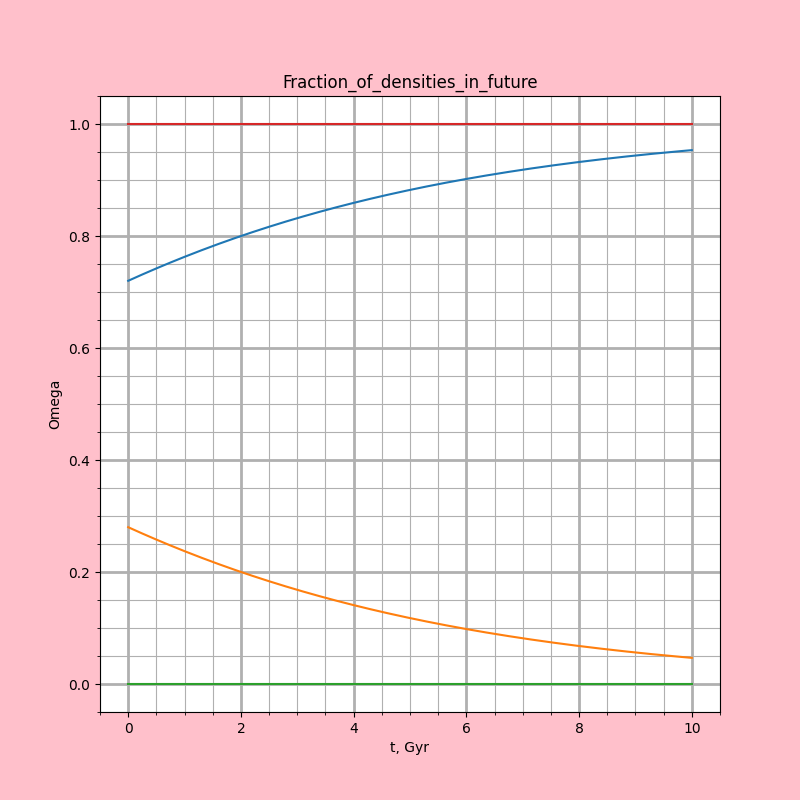
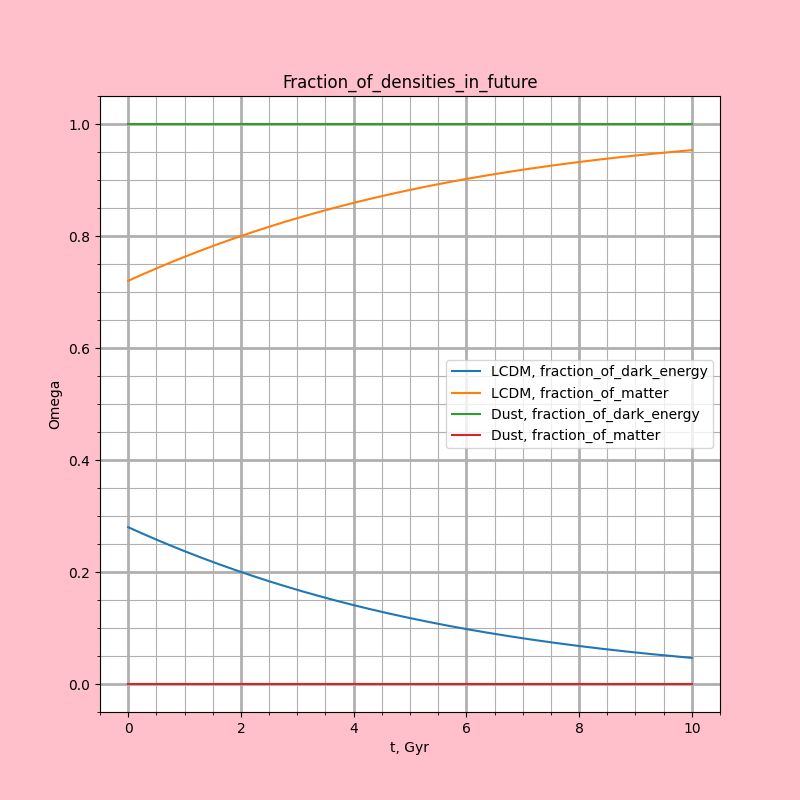
доработано легендирование

diff --git a/modeling_module/physical_problems/cosmology/solver.py b/modeling_module/physical_problems/cosmology/solver.py
@@ -84,6 +84,7 @@ class Cosmology_calculus():
         self.omega_r = float(model.omega_r)
         self.omega_d = float(model.omega_d)
         self.EOS = sympify(model.equation_d)
+        self.title_of_model = model.title_of_model
 
         self.z_max = float(config.z_max)
         self.t_max = float(config.t_max)/13.6*float(config.H_0)/70
@@ -149,8 +150,8 @@ class Cosmology_calculus():
             sol = odeint(Friedmann_eqs_2, ICS, times, args = (self.EOS,))
             self.scale_factor.append(sol[1,0])
             self.T_i.append(t*13.6*70/self.H_0)
-            self.OMEGA_d.append(sol[1,4]/(3*sol[1,1]**2))
-            self.OMEGA_m.append(sol[1,2]/(3*sol[1,1]**2))
+            self.OMEGA_d.append(sol[1,2]/(3*sol[1,1]**2))
+            self.OMEGA_m.append(sol[1,4]/(3*sol[1,1]**2))
             self.HUBBLE.append(sol[1,1]*self.H_0)
 
     def hubble_versus_z(self):
@@ -193,11 +194,16 @@ class Visualization:
 
         if Task.plot_diagram_1 == True:
 
-            fig = plt.figure(figsize=(12,8), facecolor='pink', frameon=True)
+            legends = []
+
+            fig = plt.figure(figsize=(8,8), facecolor='pink', frameon=True)
             ax = fig.add_subplot(111)
             for model in self.models:
                 ax.plot(model.z_i,model.mu_i)
+                legends.append(model.title_of_model)
             ax.errorbar(model.redshifts_1,model.mu_o, yerr=model.err_mu, fmt=".")
+            legends.append('observational_data')
+            ax.legend(legends)
             ax.minorticks_on()
             ax.set_title('SNe_Ia_magnitude_vs_redshift')
             ax.set_xlabel('z')
@@ -208,11 +214,16 @@ class Visualization:
 
         if Task.plot_diagram_2 == True:
 
+            legends = []
+
             fig2 = plt.figure(figsize=(8,8), facecolor='pink', frameon=True)
             ax2 = fig2.add_subplot(111)
             for model in self.models:
                 ax2.plot(model.z_i,model.H_i)
+                legends.append(model.title_of_model)
             ax2.errorbar(model.redshifts_2,model.H_o,yerr=model.err_H,fmt=".")
+            legends.append("observational data")
+            ax2.legend(legends)
             ax2.minorticks_on()
             ax2.set_title('Hubble_parameter_vs_redshift')
             ax2.set_xlabel('z')
@@ -222,11 +233,13 @@ class Visualization:
             fig2.savefig(path + 'results/H(z)')
         #
         if Task.plot_diagram_3 == True:
-
+            legends = []
             fig3 = plt.figure(figsize=(8,8), facecolor='pink', frameon=True)
             ax3 = fig3.add_subplot(111)
             for model in self.models:
                 ax3.plot(model.z_i,model.t_i)
+                legends.append(model.title_of_model)
+            ax3.legend(legends)
             ax3.minorticks_on()
             ax3.set_title('time_vs_redshift')
             ax3.set_xlabel('z')
@@ -237,10 +250,14 @@ class Visualization:
         #
         if Task.plot_diagram_4 == True:
 
+            legends = []
+
             fig5 = plt.figure(figsize=(8,8), facecolor='pink', frameon=True)
             ax5 = fig5.add_subplot(111)
             for model in self.models:
                 ax5.plot(model.T_i,model.scale_factor)
+                legends.append(model.title_of_model)
+            ax5.legend(legends)
             ax5.minorticks_on()
             ax5.set_title('scale_factor_in_future')
             ax5.set_xlabel('t, Gyr')
@@ -251,10 +268,14 @@ class Visualization:
         #
         if Task.plot_diagram_5 == True:
 
+            legends = []
+
             fig4 = plt.figure(figsize=(8,8), facecolor='pink', frameon=True)
             ax4 = fig4.add_subplot(111)
             for model in self.models:
                 ax4.plot(model.T_i,model.HUBBLE)
+                legends.append(model.title_of_model)
+            ax4.legend(legends)
             ax4.minorticks_on()
             ax4.set_title('Hubble_parameter_in_future')
             ax4.set_xlabel('t, Gyr')
@@ -264,12 +285,15 @@ class Visualization:
             fig4.savefig(path + 'results/H(t)')
         #
         if Task.plot_diagram_6 == True:
-
+            legends = []
             fig5 = plt.figure(figsize=(8,8), facecolor='pink', frameon=True)
             ax5 = fig5.add_subplot(111)
             for model in self.models:
                 ax5.plot(model.z_i,model.Omega_d)
+                legends.append(model.title_of_model + ', fraction_of_dark_energy')
                 ax5.plot(model.z_i,model.Omega_m)
+                legends.append(model.title_of_model + ', fraction_of_matter')
+            ax5.legend(legends)
             ax5.minorticks_on()
             ax5.set_title('Fraction_of_densities_in_past')
             ax5.set_xlabel('z')
@@ -280,11 +304,16 @@ class Visualization:
         #
         if Task.plot_diagram_7 == True:
 
+            legends = []
+
             fig5 = plt.figure(figsize=(8,8), facecolor='pink', frameon=True)
             ax5 = fig5.add_subplot(111)
             for model in self.models:
                 ax5.plot(model.T_i,model.OMEGA_d)
+                legends.append(model.title_of_model + ', fraction_of_dark_energy')
                 ax5.plot(model.T_i,model.OMEGA_m)
+                legends.append(model.title_of_model + ', fraction_of_matter')
+            ax5.legend(legends)
             ax5.minorticks_on()
             ax5.set_title('Fraction_of_densities_in_future')
             ax5.set_xlabel('t, Gyr')
@@ -295,10 +324,14 @@ class Visualization:
         #
         if Task.plot_diagram_8 == True:
 
+            legends = []
+
             fig4 = plt.figure(figsize=(8,8), facecolor='pink', frameon=True)
             ax4 = fig4.add_subplot(111)
             for model in self.models:
                 ax4.plot(model.z_i,model.DA)
+                legends.append(model.title_of_model)
+            ax4.legend(legends)
             ax4.minorticks_on()
             ax4.set_title('Angular_diameter_distance')
             ax4.set_xlabel('z')
